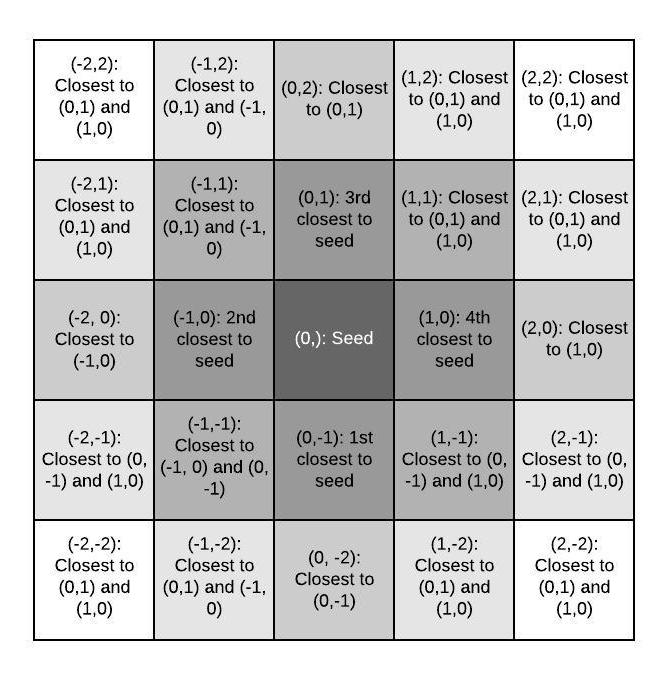
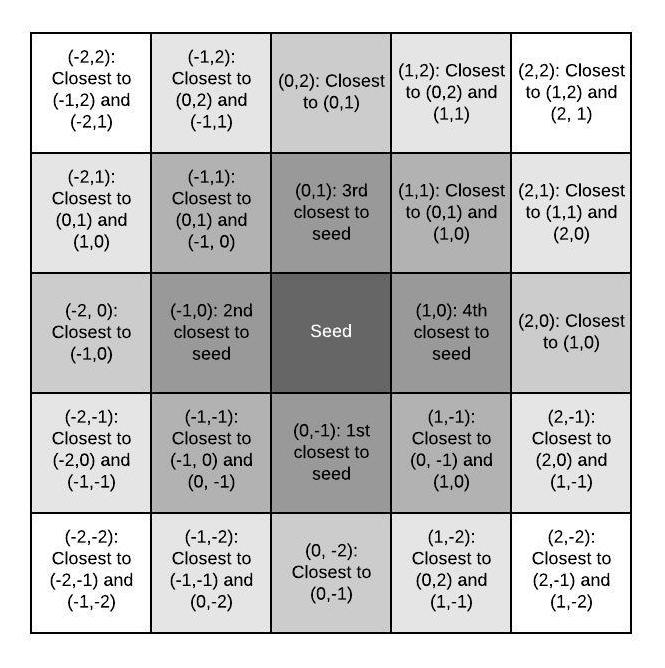
edited tile arrangement

diff --git a/_posts/2020-04-12-spotify-collage-creation-with-pca.md b/_posts/2020-04-12-spotify-collage-creation-with-pca.md
@@ -91,6 +91,8 @@ We start by creating a map of tile indices to positions in the collage:
 
 ```python
 n_img = int(np.ceil(np.sqrt(n_tiles)))
+
+# We need an odd number of tiles to account for the seed
 if n_img % 2 == 0: 
     n_img += 1
 
@@ -112,3 +114,30 @@ ind_map[c, c] = seed_ind+1
 ```
 
 `tot_similarity_to_neighbors` is an array of the sum of similarties for each tile to its four closest neighbors. We then set the similarity of all other tiles to our seed to zero so we don't accidentally pick the seed again.
+
+Notice that we're starting indices at one so we can use zero as a marker that an index hasn't yes been filled.
+
+We'll then define a helper function to set a position `(x, y)` in the index map closest to `(xs, ys)`:
+
+```python
+def get_ind_at(ys, xs, y, x):
+    target_inds = ind_map[ys, xs]
+
+    # Bail if we haven't yet set the indices at ys and xs
+    if (target_inds == 0).sum() > 0: 
+        return
+
+    # Sum the similarity vectors for our two target indices
+    similarities = pairwise_similarity[target_inds-1].sum(0)
+
+    # Bail if we have already invalidated the indices
+    if similarities.max() == 0: 
+        return
+
+    # Get the most similar index
+    chosen_ind = np.argsort(similarities)[-1] + 1
+    ind_map[y, x] = chosen_ind
+
+    # Invalidate the index chosen
+    pairwise_similarity[np.arange(n_tiles), chosen_ind-1] = 0
+```
